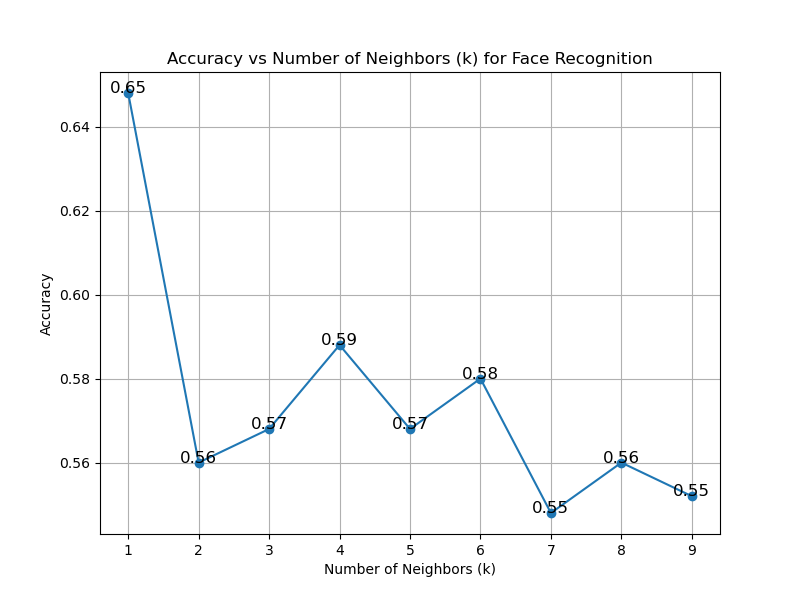
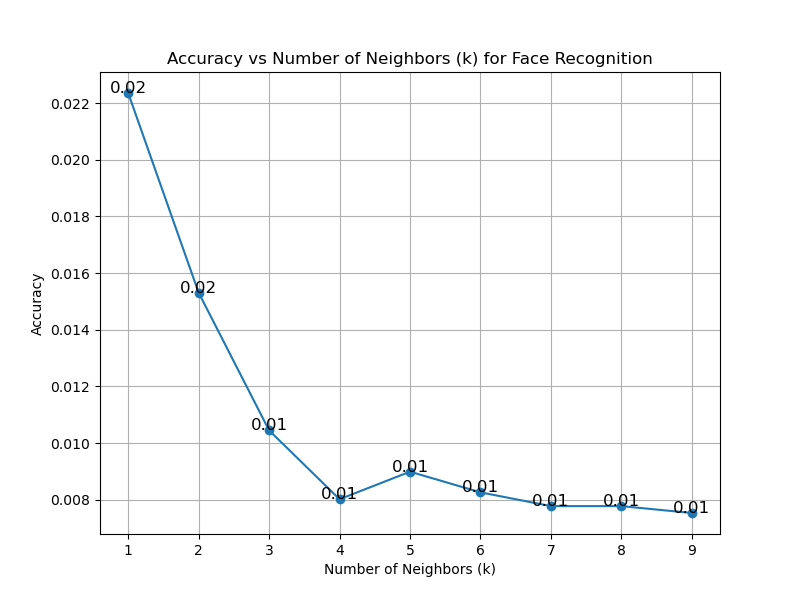
commit crop.py, detector3.py, cropped color pictures

diff --git a/20_prepocessing/crop.py b/20_prepocessing/crop.py
@@ -1,113 +1,75 @@
 import os
-import detector2
 import detector3
 import dlib
 import numpy as np
 from matplotlib import pyplot as plt
 from skimage.feature import hog
-# import more libraries as you need
 import cv2
 import tqdm
 
-# T1  start _______________________________________________________________________________
-# Read in Dataset
-
-# change the dataset path here according to your folder structure
-
-
-dataset_path = "../20_GeorgiaTechFaces/dataset/part_1"
+# 设置数据集路径
+dataset_path = "../20_GeorgiaTechFaces/related/part_1"
 predictor_path = '../shape_predictor_68_face_landmarks.dat/shape_predictor_68_face_landmarks.dat'
 detector = dlib.get_frontal_face_detector()
 predictor = dlib.shape_predictor(predictor_path)
 
+# 读取原始数据集
 X = []
-count = 0
-for img_name in tqdm.tqdm(os.listdir(dataset_path), desc='reading images'):
-    if img_name.endswith('.jpg'):
-        count += 1
-        # if count <= 100000:
-        #     continue
-        img_path = os.path.join(dataset_path, img_name)
-        img = cv2.imread(img_path)
-        # if len(X) >= 100000:
-        #     break
-        if img is not None:
-            X.append(img)
+for subject_name in tqdm.tqdm(os.listdir(dataset_path), desc='reading images'):
+    if os.path.isdir(os.path.join(dataset_path, subject_name)):
+        subject_images_dir = os.path.join(dataset_path, subject_name)
+        temp_x_list = []
+        for img_name in os.listdir(subject_images_dir):
+            if img_name.endswith('.jpg'):
+                img_path = os.path.join(subject_images_dir, img_name)
+                img = cv2.imread(img_path)
+                temp_x_list.append((img_name, img))
+        X.append((subject_name, temp_x_list))
 
+# 读取有遮挡的数据集
 dataset_path = '../20_GeorgiaTechFaces/masked/part_1'
 X_masked = []
-for img_name in tqdm.tqdm(os.listdir(dataset_path), desc='reading images'):
-    if img_name.endswith('.jpg'):
-        img_path = os.path.join(dataset_path, img_name)
-        img = cv2.imread(img_path)
-        # if len(X_masked) >= 5000:
-        #     break
-        if img is not None:
-            X_masked.append(img)
+for subject_name in tqdm.tqdm(os.listdir(dataset_path), desc='reading images'):
+    if os.path.isdir(os.path.join(dataset_path, subject_name)):
+        subject_images_dir = os.path.join(dataset_path, subject_name)
+        temp_x_mask_list = []
+        for img_name in os.listdir(subject_images_dir):
+            if img_name.endswith('.jpg'):
+                img_path = os.path.join(subject_images_dir, img_name)
+                img = cv2.imread(img_path)
+                temp_x_mask_list.append((img_name, img))
+        X_masked.append((subject_name, temp_x_mask_list))
 
-dataset_path = '../20_GeorgiaTechFaces/related/part_1'
-related = []
-for img_name in tqdm.tqdm(os.listdir(dataset_path), desc='reading images'):
-    if img_name.endswith('.png'):
-        img_path = os.path.join(dataset_path, img_name)
-        img = cv2.imread(img_path)
-        # if len(related) >= 5000:
-        #     break
-        if img is not None:
-            related.append(img)
-
-
-
+# 预处理图像
 X_maskprocessed = []
 X_processed = []
-image_labels = []
-for i in tqdm.tqdm(zip(range(len(X))), desc='preprocessing images 1'):
-    temp_img = detector2.crop_and_resize_face(X[i], detector, predictor)
-    if temp_img is None:
-        continue
-    # append the converted image into temp_X_processed
-    # append temp_X_processed into  X_processed
-    X_processed.append(temp_img)
+for i in tqdm.tqdm(range(len(X)), desc='preprocessing images'):
+    temp_X_processed = []
+    temp_X_maskprocessed = []
+    subject_name, x_list = X[i]
+    _, x_masklist = X_masked[i]
+    for j in range(len(x_list)):
+        img_name, img = x_list[j]
+        _, mask_img = x_masklist[j]
+        temp_img, temp_maskimg = detector3.crop_and_resize_face(img, mask_img, detector, predictor)
+        temp_X_processed.append((img_name, temp_img))
+        temp_X_maskprocessed.append((img_name, temp_maskimg))
+    X_processed.append((subject_name, temp_X_processed))
+    X_maskprocessed.append((subject_name, temp_X_maskprocessed))
 
-image_labels_mask = []
-for i in tqdm.tqdm(zip(range(len(related))), desc='preprocessing images 1'):
-    t, temp_maskimg = detector3.crop_and_resize_face(related[i], X_masked[i], detector, predictor)
-    if temp_maskimg is None:
-        continue
-        print(i)
-        plt.imshow(cv2.cvtColor(related[i], cv2.COLOR_BGR2RGB))  # Display the image with no faces detected
-        plt.title('No faces detected')
-        plt.show()
+# 保存处理后的图像
+maskprocessed_dataset_path = '../GeorgiaTechFaces/Maskedcrop_1'
+os.makedirs(maskprocessed_dataset_path, exist_ok=True)
+for subject_name, subject_images in X_maskprocessed:
+    subject_folder = os.path.join(maskprocessed_dataset_path, subject_name)
+    os.makedirs(subject_folder, exist_ok=True)
+    for img_name, img in subject_images:
+        cv2.imwrite(os.path.join(subject_folder, img_name), img)
 
-    # append the converted image into temp_X_processed
-    # append temp_X_processed into  X_processed
-    X_maskprocessed.append(temp_maskimg)
-
-# Save the processed images
-maskprocessed_dataset_path = '../20_GeorgiaTechFaces/Maskedcrop_1/part_1'
-if not os.path.exists(maskprocessed_dataset_path):
-    os.makedirs(maskprocessed_dataset_path)
-for i, img in enumerate(X_maskprocessed):
-    img_save_path = os.path.join(maskprocessed_dataset_path, f"{str(i + 1).zfill(6)}.jpg")
-    cv2.imwrite(img_save_path, img)
-
-processed_dataset_path = '../20_GeorgiaTechFaces/Crop_1/part_1'
-if not os.path.exists(processed_dataset_path):
-    os.makedirs(processed_dataset_path)
-for i, img in enumerate(X_processed):
-    img_save_path = os.path.join(processed_dataset_path, f"{str(i + 100001).zfill(6)}.jpg")
-    cv2.imwrite(img_save_path, img)
-
-path = '../20_GeorgiaTechFaces'
-# 将图片编号和人物序号保存到txt文件中
-with open(os.path.join(Masked_dataset_path, "crop_part_1_labels.txt"), 'w') as f:
-    for img_number, label in image_labels:
-        f.write(f"{img_number} {label}\n")
-
-path = '../20_GeorgiaTechFaces'
-# 将图片编号和人物序号保存到txt文件中
-with open(os.path.join(Masked_dataset_path, "mask_crop_part_1_labels.txt"), 'w') as f:
-    for img_number, label in image_labels_mask:
-        f.write(f"{img_number} {label}\n")
-
-
+processed_dataset_path = '../GeorgiaTechFaces/Crop_1'
+os.makedirs(processed_dataset_path, exist_ok=True)
+for subject_name, subject_images in X_processed:
+    subject_folder = os.path.join(processed_dataset_path, subject_name)
+    os.makedirs(subject_folder, exist_ok=True)
+    for img_name, img in subject_images:
+        cv2.imwrite(os.path.join(subject_folder, img_name), img)

diff --git a/bonus/kNN_hog.py b/bonus/kNN_hog.py
@@ -17,8 +17,8 @@ def extract_hog_features(image):
     return features, hog_image
 
 
-processedset_path = "../20_GeorgiaTechFaces/dataset/part_1"
-masked_processedset_path = "../20_GeorgiaTechFaces/masked/part_1"
+processedset_path = "../20_GeorgiaTechFaces/related/part_2"
+masked_processedset_path = "../20_GeorgiaTechFaces/masked/part_2"
 
 # 读取并处理图像数据
 X_train = []
@@ -55,18 +55,16 @@ y_test = []
 X_train, y_train = train_split(processedset_path)
 X_test, y_test = test_split(masked_processedset_path)
 
+
 X_train = np.array(X_train)
 y_train = np.array(y_train)
 X_test = np.array(X_test)
 y_test = np.array(y_test)
 
-X_train = X_train.reshape(-1, 1)
-X_test = X_test.reshape(-1, 1)
-
-# 标准化数据
-scaler = StandardScaler()
-X_train = scaler.fit_transform(X_train)
-X_test = scaler.transform(X_test)
+# # 标准化数据
+# scaler = StandardScaler()
+# X_train = scaler.fit_transform(X_train)
+# X_test = scaler.transform(X_test)
 
 # 定义 k 值的范围
 k_values = [1, 2, 3, 4, 5, 6, 7, 8, 9]
@@ -106,3 +104,6 @@ os.makedirs(save_path, exist_ok=True)
 plot_save_path = os.path.join(save_path, "kNN_ConvertGrayscaleprocessedset_1_k_vs_accuracy.png")
 plt.savefig(plot_save_path)
 plt.show()
+
+print("length_of_X_train:{}".format(len(X_train)))
+print("length_of_X_test:{}".format(len(X_test)))

diff --git a/20_prepocessing/Mask.py b/20_prepocessing/Mask.py
@@ -7,11 +7,11 @@ import tqdm
 import preprocessing_utils
 
 # 定义路径
-dataset_path = "../20_GeorgiaTechFaces/dataset/part_9"
+dataset_path = "../20_GeorgiaTechFaces/dataset/part_10"
 predictor_path = '../shape_predictor_68_face_landmarks.dat/shape_predictor_68_face_landmarks.dat'
-Masked_dataset_path = "../20_GeorgiaTechFaces/masked/part_9"
-related_dataset_path = "../20_GeorgiaTechFaces/related/part_9"
-rotate_dataset_path = "../20_GeorgiaTechFaces/rotate/part_9"
+Masked_dataset_path = "../20_GeorgiaTechFaces/masked/part_10"
+related_dataset_path = "../20_GeorgiaTechFaces/related/part_10"
+rotate_dataset_path = "../20_GeorgiaTechFaces/rotate/part_10"
 
 # 初始化dlib的面部检测器和面部标志预测器
 detector = dlib.get_frontal_face_detector()

diff --git a/20_prepocessing/detector3.py b/20_prepocessing/detector3.py
@@ -54,7 +54,7 @@ def crop_and_resize_face(img, img_masked, detector, predictor):
                 plt.imshow(img)  # Display the image with no faces detected
                 plt.title('No faces detected')
                 plt.show()
-                return None
+                return None, None
         if cropped_maskedface.size == 0 or cropped_maskedface is None:
                 plt.imshow(img)  # Display the image with no faces detected
                 plt.title('No faces detected')

diff --git a/bonus/train_test_split.py b/bonus/train_test_split.py
@@ -16,7 +16,7 @@ def train_split(path):
 
     for forder in tqdm.tqdm(os.listdir(path), desc='split train data:'):
           for i, img in enumerate(os.listdir(os.path.join(path, forder))):
-             if (i < len(os.listdir(os.path.join(path, forder))) / 3):
+             if (i < len(os.listdir(os.path.join(path, forder))) / 3 * 2):
                  p = os.path.join(path, forder, img)
                  
                  img = cv2.imread(p, cv2.IMREAD_GRAYSCALE)
